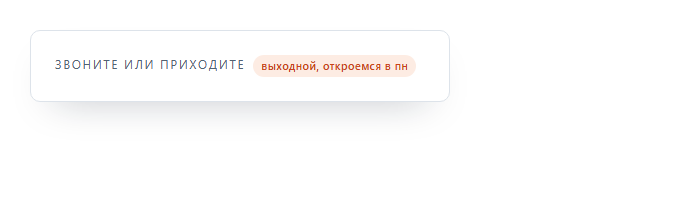
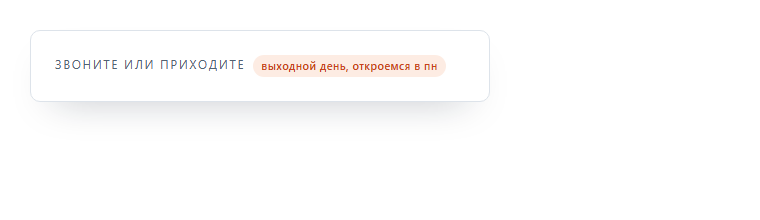
Пометка: «выходной день, откроемся в пн»

Changed region(s): [[0.06, 0.2455, 0.6, 0.3545]]

diff --git a/index.html b/index.html
@@ -29,7 +29,7 @@
   <link rel="preload" href="assets/fonts/rubik-wm-cyrillic.woff2" as="font" type="font/woff2" crossorigin>
   <link rel="preload" href="assets/fonts/inter-cyrillic.woff2" as="font" type="font/woff2" crossorigin>
   <link rel="preload" href="assets/fonts/inter-tight-cyrillic.woff2" as="font" type="font/woff2" crossorigin>
-  <link rel="stylesheet" href="assets/style.css?v=20261176">
+  <link rel="stylesheet" href="assets/style.css?v=20261177">
 
   <script type="application/ld+json">
   {
@@ -81,7 +81,7 @@
   <header class="site-header">
     <div class="container header-inner">
       <a class="brand" href="#top" aria-label="Интер-Техника-Плюс — на главную">
-        <img class="brand-logo" src="assets/logo.png?v=20261176" alt="Интер-Техника-Плюс" width="112" height="44">
+        <img class="brand-logo" src="assets/logo.png?v=20261177" alt="Интер-Техника-Плюс" width="112" height="44">
         <span class="brand-name">Интер-Техника<span class="brand-plus">+</span></span>
       </a>
 
@@ -426,8 +426,8 @@
     <a class="btn btn--ghost" href="https://yandex.ru/maps/org/1043257440/" target="_blank" rel="noopener">Написать</a>
   </div>
 
-  <script src="assets/app.js?v=20261176" defer></script>
-<script src="assets/hours.js?v=20261176" defer></script>
-  <script src="assets/map.js?v=20261176" defer></script>
+  <script src="assets/app.js?v=20261177" defer></script>
+<script src="assets/hours.js?v=20261177" defer></script>
+  <script src="assets/map.js?v=20261177" defer></script>
 </body>
 </html>

diff --git a/new.html b/new.html
@@ -21,13 +21,13 @@
   <link rel="icon" href="assets/favicon-32.png" type="image/png" sizes="32x32">
   <link rel="icon" href="assets/favicon-192.png" type="image/png" sizes="192x192">
   <link rel="apple-touch-icon" href="assets/apple-touch-icon.png" sizes="180x180">
-  <link rel="stylesheet" href="assets/style.css?v=20261176">
+  <link rel="stylesheet" href="assets/style.css?v=20261177">
 </head>
 <body>
   <header class="site-header">
     <div class="container header-inner">
       <a class="brand" href="index.html" aria-label="Интер-Техника-Плюс — на главную">
-        <img class="brand-logo" src="assets/logo.png?v=20261176" alt="Интер-Техника-Плюс" width="112" height="44">
+        <img class="brand-logo" src="assets/logo.png?v=20261177" alt="Интер-Техника-Плюс" width="112" height="44">
         <span class="brand-name">Интер-Техника<span class="brand-plus">+</span></span>
       </a>
       <button class="nav-toggle" type="button" aria-expanded="false" aria-controls="nav">
@@ -130,9 +130,9 @@
   </div>
 </footer>
 
-  <script src="assets/app.js?v=20261176" defer></script>
-<script src="assets/hours.js?v=20261176" defer></script>
-  <script src="assets/catalog.js?v=20261176" defer></script>
-<script src="assets/order.js?v=20261176" defer></script>
+  <script src="assets/app.js?v=20261177" defer></script>
+<script src="assets/hours.js?v=20261177" defer></script>
+  <script src="assets/catalog.js?v=20261177" defer></script>
+<script src="assets/order.js?v=20261177" defer></script>
 </body>
 </html>

diff --git a/used.html b/used.html
@@ -21,13 +21,13 @@
   <link rel="icon" href="assets/favicon-32.png" type="image/png" sizes="32x32">
   <link rel="icon" href="assets/favicon-192.png" type="image/png" sizes="192x192">
   <link rel="apple-touch-icon" href="assets/apple-touch-icon.png" sizes="180x180">
-  <link rel="stylesheet" href="assets/style.css?v=20261176">
+  <link rel="stylesheet" href="assets/style.css?v=20261177">
 </head>
 <body>
   <header class="site-header">
     <div class="container header-inner">
       <a class="brand" href="index.html" aria-label="Интер-Техника-Плюс — на главную">
-        <img class="brand-logo" src="assets/logo.png?v=20261176" alt="Интер-Техника-Плюс" width="112" height="44">
+        <img class="brand-logo" src="assets/logo.png?v=20261177" alt="Интер-Техника-Плюс" width="112" height="44">
         <span class="brand-name">Интер-Техника<span class="brand-plus">+</span></span>
       </a>
       <button class="nav-toggle" type="button" aria-expanded="false" aria-controls="nav">
@@ -130,9 +130,9 @@
   </div>
 </footer>
 
-  <script src="assets/app.js?v=20261176" defer></script>
-<script src="assets/hours.js?v=20261176" defer></script>
-  <script src="assets/catalog.js?v=20261176" defer></script>
-<script src="assets/order.js?v=20261176" defer></script>
+  <script src="assets/app.js?v=20261177" defer></script>
+<script src="assets/hours.js?v=20261177" defer></script>
+  <script src="assets/catalog.js?v=20261177" defer></script>
+<script src="assets/order.js?v=20261177" defer></script>
 </body>
 </html>

diff --git a/requisites.html b/requisites.html
@@ -10,13 +10,13 @@
   <link rel="icon" href="assets/favicon-32.png" type="image/png" sizes="32x32">
   <link rel="icon" href="assets/favicon-192.png" type="image/png" sizes="192x192">
   <link rel="apple-touch-icon" href="assets/apple-touch-icon.png" sizes="180x180">
-  <link rel="stylesheet" href="assets/style.css?v=20261176">
+  <link rel="stylesheet" href="assets/style.css?v=20261177">
 </head>
 <body>
   <header class="site-header">
     <div class="container header-inner">
       <a class="brand" href="index.html" aria-label="Интер-Техника-Плюс — на главную">
-        <img class="brand-logo" src="assets/logo.png?v=20261176" alt="Интер-Техника-Плюс" width="112" height="44">
+        <img class="brand-logo" src="assets/logo.png?v=20261177" alt="Интер-Техника-Плюс" width="112" height="44">
         <span class="brand-name">Интер-Техника<span class="brand-plus">+</span></span>
       </a>
       <button class="nav-toggle" type="button" aria-expanded="false" aria-controls="nav">
@@ -160,7 +160,7 @@
   </div>
 </footer>
 
-  <script src="assets/app.js?v=20261176" defer></script>
-<script src="assets/hours.js?v=20261176" defer></script>
+  <script src="assets/app.js?v=20261177" defer></script>
+<script src="assets/hours.js?v=20261177" defer></script>
 </body>
 </html>

diff --git a/404.html b/404.html
@@ -9,13 +9,13 @@
   <link rel="icon" href="assets/favicon-32.png" type="image/png" sizes="32x32">
   <link rel="icon" href="assets/favicon-192.png" type="image/png" sizes="192x192">
   <link rel="apple-touch-icon" href="assets/apple-touch-icon.png" sizes="180x180">
-  <link rel="stylesheet" href="assets/style.css?v=20261176">
+  <link rel="stylesheet" href="assets/style.css?v=20261177">
 </head>
 <body>
   <header class="site-header">
     <div class="container header-inner">
       <a class="brand" href="index.html" aria-label="Интер-Техника-Плюс — на главную">
-        <img class="brand-logo" src="assets/logo.png?v=20261176" alt="Интер-Техника-Плюс" width="112" height="44">
+        <img class="brand-logo" src="assets/logo.png?v=20261177" alt="Интер-Техника-Плюс" width="112" height="44">
         <span class="brand-name">Интер-Техника<span class="brand-plus">+</span></span>
       </a>
       <nav class="nav" aria-label="Основная навигация">
@@ -73,7 +73,7 @@
   </div>
 </footer>
 
-  <script src="assets/app.js?v=20261176" defer></script>
-<script src="assets/hours.js?v=20261176" defer></script>
+  <script src="assets/app.js?v=20261177" defer></script>
+<script src="assets/hours.js?v=20261177" defer></script>
 </body>
 </html>

diff --git a/privacy.html b/privacy.html
@@ -13,13 +13,13 @@
   <link rel="canonical" href="https://ivu.ru/privacy.html">
 <link rel="icon" href="assets/favicon-192.png" type="image/png" sizes="192x192">
   <link rel="apple-touch-icon" href="assets/apple-touch-icon.png" sizes="180x180">
-  <link rel="stylesheet" href="assets/style.css?v=20261176">
+  <link rel="stylesheet" href="assets/style.css?v=20261177">
 </head>
 <body>
   <header class="site-header">
     <div class="container header-inner">
       <a class="brand" href="index.html" aria-label="Интер-Техника-Плюс — на главную">
-        <img class="brand-logo" src="assets/logo.png?v=20261176" alt="Интер-Техника-Плюс" width="112" height="44">
+        <img class="brand-logo" src="assets/logo.png?v=20261177" alt="Интер-Техника-Плюс" width="112" height="44">
         <span class="brand-name">Интер-Техника<span class="brand-plus">+</span></span>
       </a>
       <button class="nav-toggle" type="button" aria-expanded="false" aria-controls="nav">
@@ -145,7 +145,7 @@
   </div>
 </footer>
 
-  <script src="assets/app.js?v=20261176" defer></script>
-<script src="assets/hours.js?v=20261176" defer></script>
+  <script src="assets/app.js?v=20261177" defer></script>
+<script src="assets/hours.js?v=20261177" defer></script>
 </body>
 </html>

diff --git a/assets/hours.js b/assets/hours.js
@@ -276,7 +276,7 @@
     var badge = document.createElement("span");
     badge.className = "hours-badge";
     // пишем не «закрыто», а когда откроемся — чтобы не читалось как «мы закрылись»
-    var prefix = WORKDAYS.indexOf(now.weekday) === -1 ? "выходной" : "закрыто";
+    var prefix = WORKDAYS.indexOf(now.weekday) === -1 ? "выходной день" : "закрыто";
     badge.textContent = prefix + ", откроемся " + shortOpening(now);
 
     var label = document.querySelector(".hero-card__label");

diff --git a/tovar.php b/tovar.php
@@ -108,7 +108,7 @@ $ogImage = $photos ? 'https://ivu.ru' . $uploadUrl . $photos[0] : 'https://ivu.r
 <link rel="icon" href="/assets/favicon.ico" sizes="any">
 <link rel="icon" href="/assets/favicon-32.png" type="image/png" sizes="32x32">
 <link rel="apple-touch-icon" href="/assets/apple-touch-icon.png" sizes="180x180">
-<link rel="stylesheet" href="/assets/style.css?v=20261176">
+<link rel="stylesheet" href="/assets/style.css?v=20261177">
 <?php if (!$notFound): ?>
 <script type="application/ld+json">
 {
@@ -132,7 +132,7 @@ $ogImage = $photos ? 'https://ivu.ru' . $uploadUrl . $photos[0] : 'https://ivu.r
 <header class="site-header">
   <div class="container header-inner">
     <a class="brand" href="/index.html" aria-label="Интер-Техника-Плюс — на главную">
-      <img class="brand-logo" src="/assets/logo.png?v=20261176" alt="Интер-Техника-Плюс" width="112" height="44">
+      <img class="brand-logo" src="/assets/logo.png?v=20261177" alt="Интер-Техника-Плюс" width="112" height="44">
       <span class="brand-name">Интер-Техника<span class="brand-plus">+</span></span>
     </a>
     <button class="nav-toggle" type="button" aria-expanded="false" aria-controls="nav">
@@ -354,9 +354,9 @@ $ogImage = $photos ? 'https://ivu.ru' . $uploadUrl . $photos[0] : 'https://ivu.r
     </div>
   </div>
 </footer>
-<script src="/assets/app.js?v=20261176" defer></script>
-<script src="/assets/hours.js?v=20261176" defer></script>
-<script src="/assets/order.js?v=20261176" defer></script>
+<script src="/assets/app.js?v=20261177" defer></script>
+<script src="/assets/hours.js?v=20261177" defer></script>
+<script src="/assets/order.js?v=20261177" defer></script>
 <script>
 document.addEventListener("DOMContentLoaded", function () {
   var button = document.getElementById("order-button");

diff --git a/blog.php b/blog.php
@@ -185,7 +185,7 @@ $ogImage = $post !== null && (string) $post['cover'] !== ''
 <link rel="icon" href="/assets/favicon.ico" sizes="any">
 <link rel="icon" href="/assets/favicon-32.png" type="image/png" sizes="32x32">
 <link rel="apple-touch-icon" href="/assets/apple-touch-icon.png" sizes="180x180">
-<link rel="stylesheet" href="/assets/style.css?v=20261176">
+<link rel="stylesheet" href="/assets/style.css?v=20261177">
 <?php if ($post !== null): ?>
 <script type="application/ld+json">
 {
@@ -217,7 +217,7 @@ $ogImage = $post !== null && (string) $post['cover'] !== ''
 <header class="site-header">
   <div class="container header-inner">
     <a class="brand" href="/index.html" aria-label="Интер-Техника-Плюс — на главную">
-      <img class="brand-logo" src="/assets/logo.png?v=20261176" alt="Интер-Техника-Плюс" width="112" height="44">
+      <img class="brand-logo" src="/assets/logo.png?v=20261177" alt="Интер-Техника-Плюс" width="112" height="44">
       <span class="brand-name">Интер-Техника<span class="brand-plus">+</span></span>
     </a>
     <button class="nav-toggle" type="button" aria-expanded="false" aria-controls="nav">
@@ -410,7 +410,7 @@ $ogImage = $post !== null && (string) $post['cover'] !== ''
     </div>
   </div>
 </footer>
-<script src="/assets/app.js?v=20261176" defer></script>
-<script src="/assets/hours.js?v=20261176" defer></script>
+<script src="/assets/app.js?v=20261177" defer></script>
+<script src="/assets/hours.js?v=20261177" defer></script>
 </body>
 </html>
